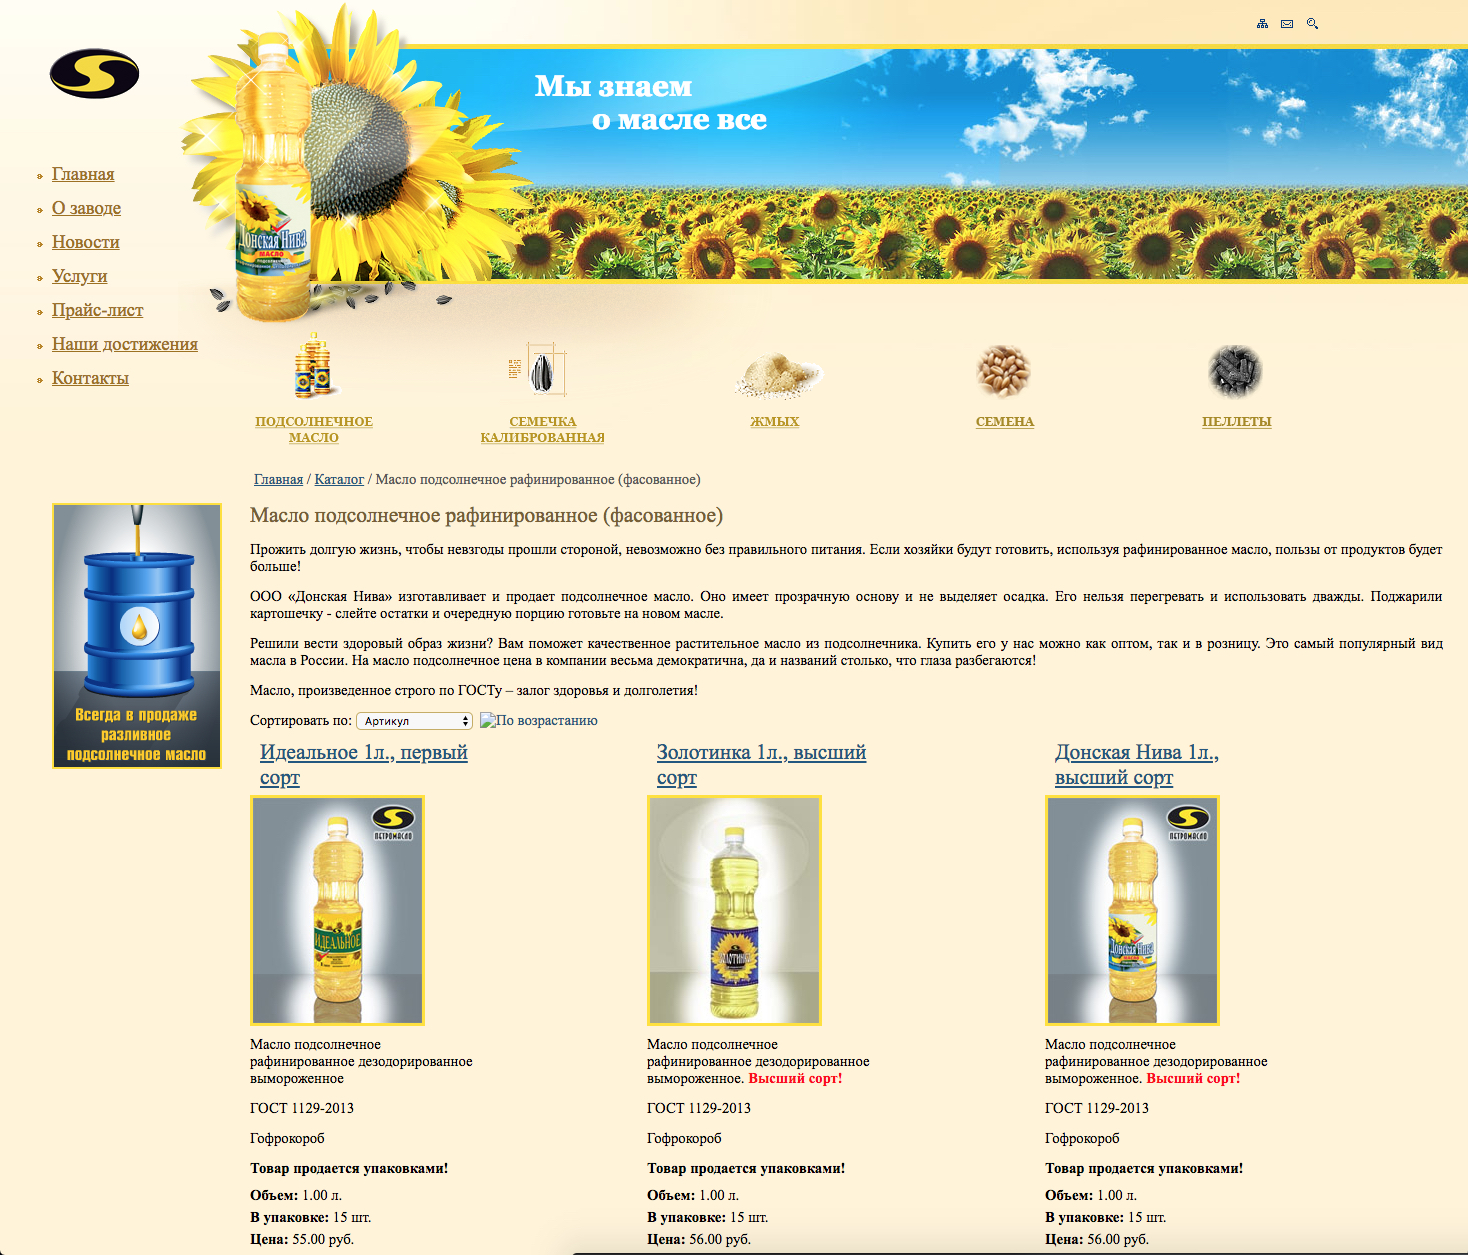
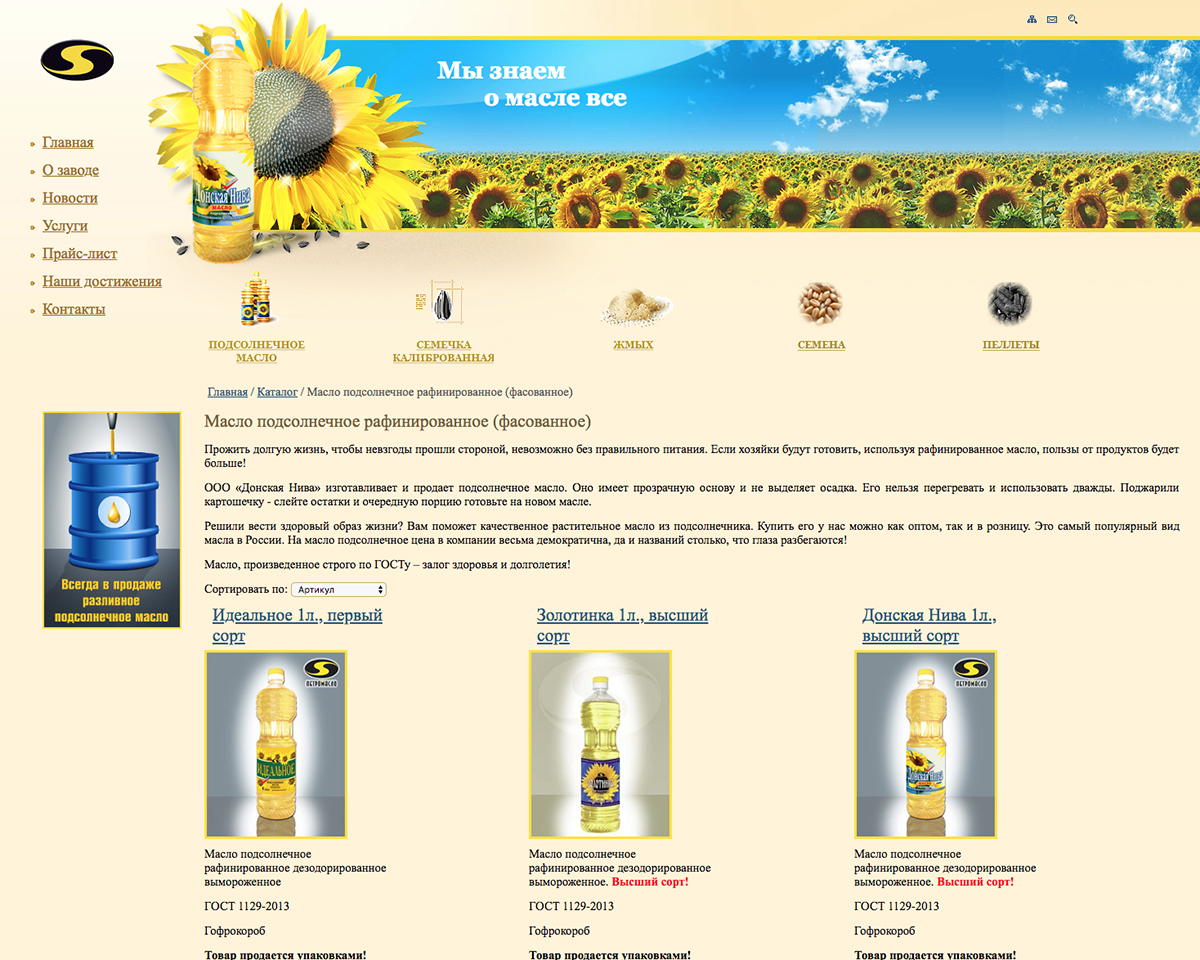
В donskaya-niva.ru дополнил описание

diff --git a/donskaya-niva.ru/README.md b/donskaya-niva.ru/README.md
@@ -1,10 +1,37 @@
-# DONSKAYA-NIVA.RU
+# Редизайн сайта DONSKAYA-NIVA.RU
 
 [https://donskaya-niva.ru/](https://donskaya-niva.ru/)
 
-## Было
+<small>Редизайн, Front-end, Back-end</small>
+
+## В работе использовал
+ 
+CMS Joomla 3, Gulp, SASS, Bootstrap 3, БЭМ, jQuery, Ajax, PHP
+
+## Основные причины редизайна
+
+* Первую версию сайта сделал в 2008 году, на CMS Joomla. За это время дизайн устарел.
+* Сайт не адаптировался под мобильные устройства.
+* Контент дублировался из-за проблем в каталоге, из-за чего 40% страниц сайта не попадало в индекс поисковых системам.
+* Из-за ошибок проектирования в прошлом, CMS было невозможно обновить без значительных трудозатрат. Это привело к проблемам с безопасностью и невозможности эффективно продвигать сайт. 
+
+Поэтому, чтобы не изобретать очередной костыль – сделали новую версию сайта.
+
+> Проектируя сайт взаимодействовал с интернет-маркетологом, отвечающий за продвижение сайта.
+
+## Что сделал
+
+* Хотелось сохранить черты предыдущего сайта, поэтому решил сделать редизайн, оглядываясь на оригинал. Макет дизайна сделал самостоятельно в Adobe XD.
+* При верстке использовал `Bootstrap 3`, `SASS`, `БЭМ`.
+* Сайт адаптируется под разрешение экрана.
+* Интегрировал верстку с `CMS Joomla 3.8` не затронув ядро – обновлять CMS теперь можно без проблем.
+* Контент на сайте редактируется в административном разделе – меню, объявление, телефоны, награды, сертификаты, новости, каталог, статичные разделы.
+* В каталоге теперь нет отдельных страниц под каждый вид продукции, описание которых отличались только названиями, из-за чего каталог индексировался с проблемами.
+* Добавил призывы к действию: заказать обратный звонок, запросить оптовый прайс, получить скидку, написать сообщение.
+* В .htaccess настроил 301 редиректы: на новые URL, удаление www у домена и слеша в конце URL.
+* Настроил веб-аналитику.
+
+## Сайт до изменений
 ![Главная страница](images/main.jpg "Главная страница")  
 
 ![Каталог](images/catalog.jpg "Каталог")
-
-## Стало
